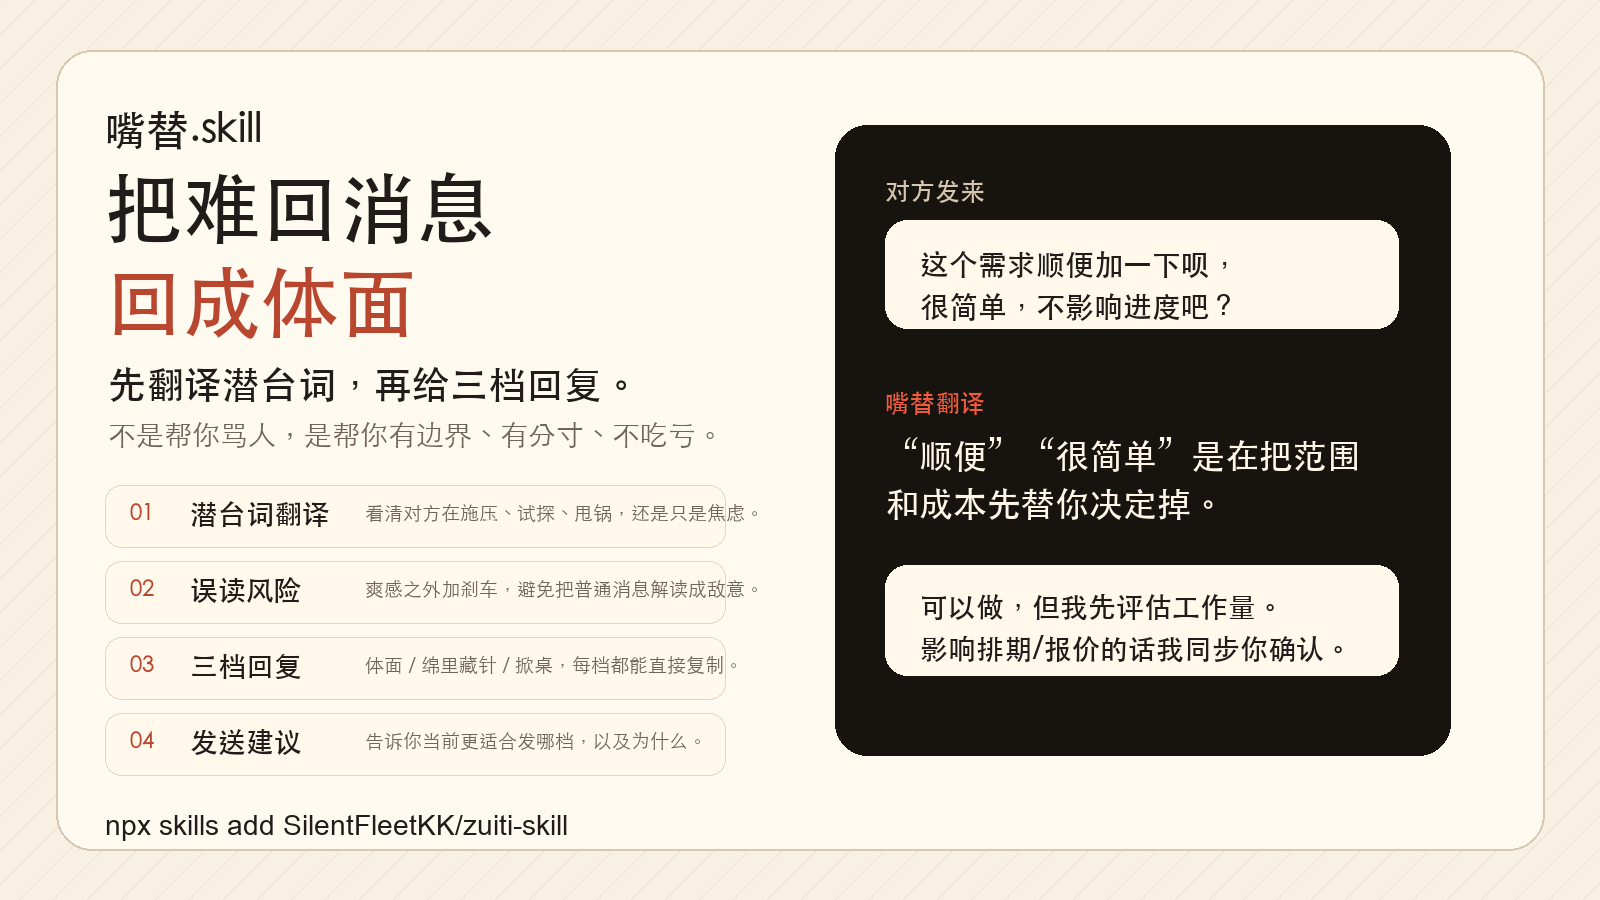
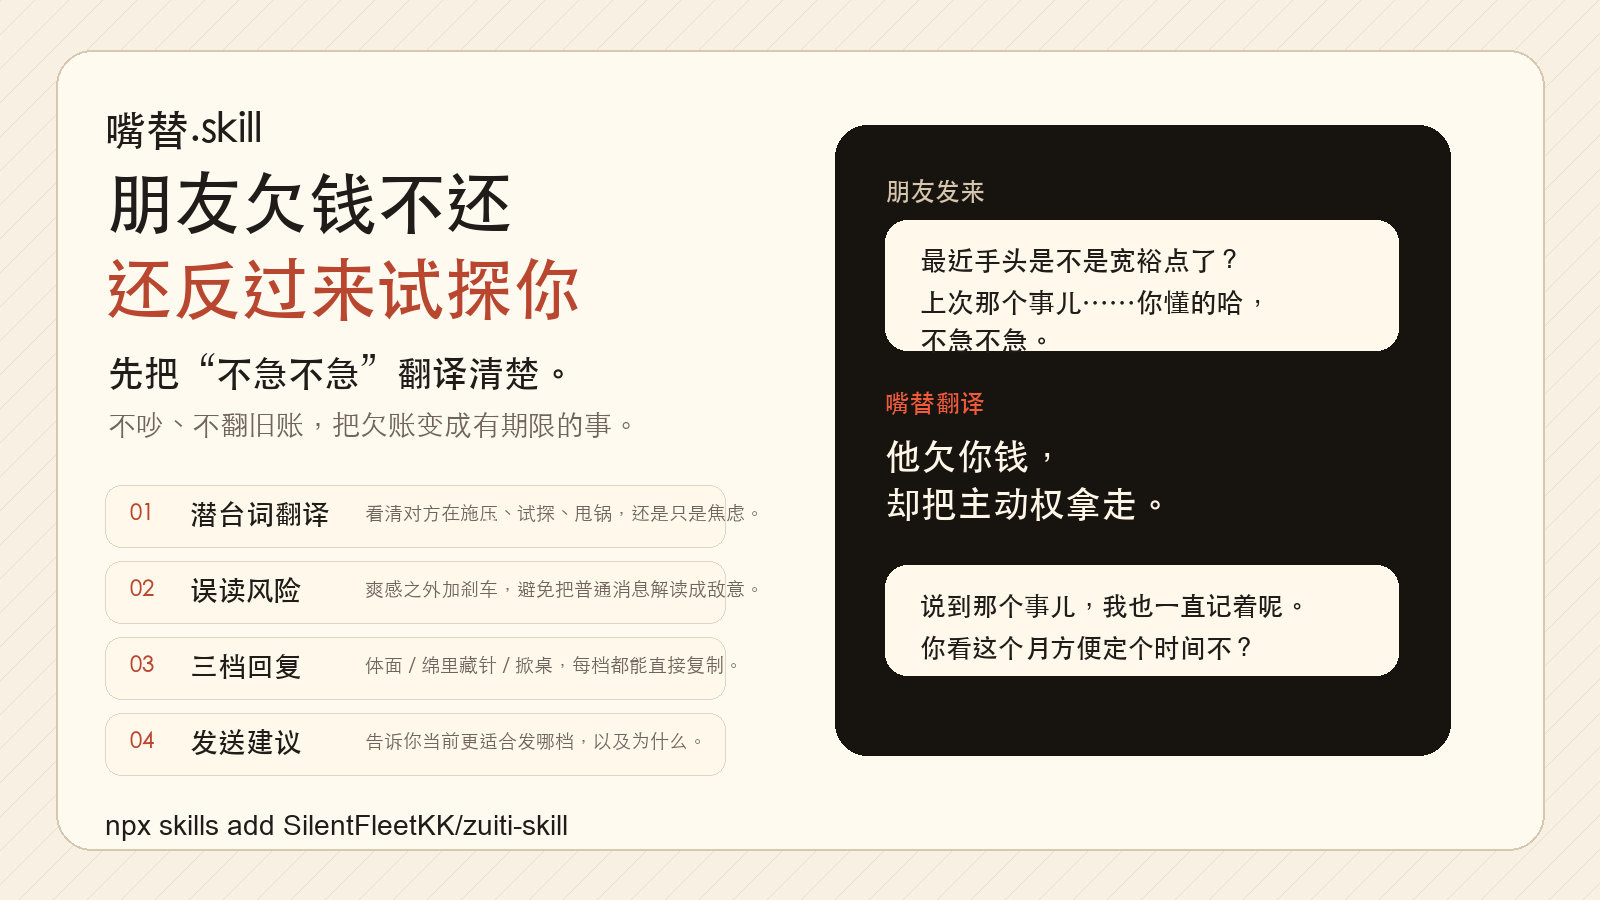
feat: 更新首页动画案例

diff --git a/tools/generate_promo_assets.py b/tools/generate_promo_assets.py
@@ -207,16 +207,17 @@ def animated_hero():
         draw.ellipse(box((cx - pulse, top + 118 - pulse, cx + pulse, top + 118 + pulse)), fill=red)
 
     def draw_input(layer, x, y, alpha):
-        draw_round(layer, (x, y, x + 304, y + 112), 18, PANEL, "#ddcfba", alpha=alpha)
-        draw_text(layer, (x + 24, y + 20), "难回消息", 15, RED, "bold", alpha)
-        draw_text(layer, (x + 24, y + 50), "这个需求顺便加一下呗，", 20, INK, "bold", alpha)
-        draw_text(layer, (x + 24, y + 82), "很简单，不影响进度吧？", 20, INK, "bold", alpha)
+        draw_round(layer, (x, y, x + 336, y + 126), 18, PANEL, "#ddcfba", alpha=alpha)
+        draw_text(layer, (x + 24, y + 20), "朋友发来", 15, RED, "bold", alpha)
+        draw_text(layer, (x + 24, y + 50), "最近手头是不是宽裕点了？", 18, INK, "bold", alpha)
+        draw_text(layer, (x + 24, y + 80), "上次那个事儿……你懂的哈，", 18, INK, "bold", alpha)
+        draw_text(layer, (x + 24, y + 108), "不急不急。", 18, INK, "bold", alpha)
 
     def draw_translation(layer, alpha):
-        draw_round(layer, (628, 112, 878, 248), 22, "#17130f", None, alpha=alpha)
+        draw_round(layer, (628, 112, 878, 260), 22, "#17130f", None, alpha=alpha)
         draw_text(layer, (656, 138), "嘴替翻译", 15, "#f05b3c", "bold", alpha)
-        draw_text(layer, (656, 174), "“顺便”“很简单”", 23, "#fff6e8", "bold", alpha)
-        draw_text(layer, (656, 210), "是在替你决定成本", 23, "#fff6e8", "bold", alpha)
+        draw_text(layer, (656, 174), "他欠你钱，", 24, "#fff6e8", "bold", alpha)
+        draw_text(layer, (656, 211), "却把主动权拿走。", 24, "#fff6e8", "bold", alpha)
 
     def draw_reply(layer, idx, title, body, alpha):
         y = 284 + idx * 58 - (1 - ease(alpha)) * 12
@@ -256,11 +257,11 @@ def animated_hero():
 
         static = Image.new("RGBA", base.size, (0, 0, 0, 0))
         draw_corner_marks(static, ease(t / 0.12))
-        draw_text(static, (66, 58), "ZUITI · SKILL  |  MESSAGE DISTILLER", 11, "#9a8878", "bold", 1, mono_font=True)
+        draw_text(static, (66, 58), "ZUITI.SKILL  |  MESSAGE DISTILLER", 12, "#9a8878", "bold", 1)
         draw_line(static, (66, 82, 132, 82), RED, 3, 1)
-        draw_text(static, (66, 118), "把难回消息", 38, INK, "bold")
-        draw_text(static, (66, 166), "回成体面", 38, RED, "bold")
-        draw_text(static, (66, 222), "先翻译潜台词，再给三档回复。", 19, MUTED, "regular")
+        draw_text(static, (66, 118), "朋友欠钱不还", 38, INK, "bold")
+        draw_text(static, (66, 166), "还反过来试探你", 38, RED, "bold")
+        draw_text(static, (66, 222), "别吵，先把账拉回明面上。", 19, MUTED, "regular")
         base.alpha_composite(static)
 
         apparatus_layer = Image.new("RGBA", base.size, (0, 0, 0, 0))
@@ -275,9 +276,9 @@ def animated_hero():
 
         # Process labels around the line-art device.
         labels = [
-            (0.30, "潜台词", 390, 170),
-            (0.42, "误读风险", 372, 300),
-            (0.54, "三档回复", 510, 360),
+            (0.30, "欠账反转", 344, 170),
+            (0.42, "不急话术", 372, 300),
+            (0.54, "定个时间", 510, 360),
         ]
         label_layer = Image.new("RGBA", base.size, (0, 0, 0, 0))
         for start, text, x, y in labels:
@@ -297,9 +298,9 @@ def animated_hero():
         base.alpha_composite(trans_layer)
 
         replies = [
-            ("体面版", "我先评估工作量。"),
-            ("绵里藏针", "影响排期我同步确认。"),
-            ("掀桌版", "范围和成本先说清。"),
+            ("体面版", "方便时安排一下。"),
+            ("绵里藏针", "这个月定个时间？"),
+            ("掀桌版", "账还是得算明白。"),
         ]
         reply_layer = Image.new("RGBA", base.size, (0, 0, 0, 0))
         for idx, (title, body) in enumerate(replies):
@@ -310,7 +311,7 @@ def animated_hero():
 
         end_alpha = ease((t - 0.78) / 0.12)
         footer = Image.new("RGBA", base.size, (0, 0, 0, 0))
-        draw_text(footer, (66, 462), "潜台词翻译 + 误读风险 + 三档回复 + 发送建议", 17, MUTED, "bold", end_alpha)
+        draw_text(footer, (104, 462), "推荐：绵里藏针版，把钱拉回明面上，也给对方留台阶", 17, MUTED, "bold", end_alpha)
         draw_text(footer, (628, 463), "npx skills add SilentFleetKK/zuiti-skill", 12, INK, "regular", end_alpha, mono_font=True)
         base.alpha_composite(footer)
 
@@ -414,8 +415,8 @@ def banner():
   <g transform="translate(980 160)">
     <rect x="0" y="0" width="350" height="235" rx="24" fill="#17130f"/>
     <text x="34" y="58" font-family="Inter, PingFang SC, Microsoft YaHei, Arial, sans-serif" font-size="20" fill="#d6c6ad">难回消息</text>
-    <text x="34" y="112" font-family="Inter, PingFang SC, Microsoft YaHei, Arial, sans-serif" font-size="30" font-weight="700" fill="#fff6e8">“顺便加一下呗”</text>
-    <text x="34" y="172" font-family="Inter, PingFang SC, Microsoft YaHei, Arial, sans-serif" font-size="24" fill="#f05b3c">→ 先评估范围，再谈排期</text>
+    <text x="34" y="112" font-family="Inter, PingFang SC, Microsoft YaHei, Arial, sans-serif" font-size="30" font-weight="700" fill="#fff6e8">“不急不急”</text>
+    <text x="34" y="172" font-family="Inter, PingFang SC, Microsoft YaHei, Arial, sans-serif" font-size="24" fill="#f05b3c">→ 把欠账定成有期限的事</text>
   </g>
   <text x="126" y="510" font-family="Inter, PingFang SC, Microsoft YaHei, Arial, sans-serif" font-size="24" font-weight="700" fill="#1f1c19">npx skills add SilentFleetKK/zuiti-skill</text>
 </svg>
@@ -437,8 +438,8 @@ def banner_png():
     d.text((130, 430), "潜台词翻译 + 误读风险 + 三档回复 + 发送建议", font=font(32), fill=MUTED)
     rounded(d, (990, 160, 1348, 402), 28, fill="#17130f")
     d.text((1026, 210), "难回消息", font=font(23, "bold"), fill="#d6c6ad")
-    d.text((1026, 275), "“顺便加一下呗”", font=font(34, "bold"), fill="#fff6e8")
-    d.text((1026, 338), "→ 先评估范围，再谈排期", font=font(26, "bold"), fill="#f05b3c")
+    d.text((1026, 275), "“不急不急”", font=font(34, "bold"), fill="#fff6e8")
+    d.text((1026, 338), "→ 把欠账定成有期限的事", font=font(24, "bold"), fill="#f05b3c")
     d.text((126, 515), "npx skills add SilentFleetKK/zuiti-skill", font=ImageFont.truetype(FONT_MONO, 26), fill=INK)
     save_png(ROOT / "assets" / "banner.png", img)
 
@@ -451,10 +452,10 @@ def hero_poster_png():
     rounded(d, (56, 50, 1544, 850), 36, fill="#fffaf0", outline=LINE, width=2)
 
     d.text((105, 108), "嘴替.skill", font=font(42, "bold"), fill=INK)
-    d.text((105, 168), "把难回消息", font=font(78, "bold"), fill=INK)
-    d.text((105, 262), "回成体面", font=font(78, "bold"), fill=RED)
-    d.text((108, 365), "先翻译潜台词，再给三档回复。", font=font(38, "bold"), fill=INK)
-    d.text((108, 420), "不是帮你骂人，是帮你有边界、有分寸、不吃亏。", font=font(28), fill=MUTED)
+    d.text((105, 168), "朋友欠钱不还", font=font(68, "bold"), fill=INK)
+    d.text((105, 254), "还反过来试探你", font=font(68, "bold"), fill=RED)
+    d.text((108, 355), "先把“不急不急”翻译清楚。", font=font(36, "bold"), fill=INK)
+    d.text((108, 410), "不吵、不翻旧账，把欠账变成有期限的事。", font=font(28), fill=MUTED)
 
     steps = [
         ("01", "潜台词翻译", "看清对方在施压、试探、甩锅，还是只是焦虑。"),
@@ -471,16 +472,17 @@ def hero_poster_png():
         y += 76
 
     rounded(d, (835, 125, 1450, 755), 32, fill="#17130f")
-    d.text((885, 178), "对方发来", font=font(25, "bold"), fill="#d6c6ad")
-    rounded(d, (885, 220, 1398, 328), 22, fill="#fff8eb")
-    d.text((920, 250), "这个需求顺便加一下呗，", font=font(29, "bold"), fill=INK)
-    d.text((920, 292), "很简单，不影响进度吧？", font=font(29, "bold"), fill=INK)
+    d.text((885, 178), "朋友发来", font=font(25, "bold"), fill="#d6c6ad")
+    rounded(d, (885, 220, 1398, 350), 22, fill="#fff8eb")
+    d.text((920, 246), "最近手头是不是宽裕点了？", font=font(27, "bold"), fill=INK)
+    d.text((920, 288), "上次那个事儿……你懂的哈，", font=font(27, "bold"), fill=INK)
+    d.text((920, 326), "不急不急。", font=font(27, "bold"), fill=INK)
     d.text((885, 390), "嘴替翻译", font=font(25, "bold"), fill="#f05b3c")
-    d.text((885, 438), "“顺便”“很简单”是在把范围", font=font(34, "bold"), fill="#fff6e8")
-    d.text((885, 486), "和成本先替你决定掉。", font=font(34, "bold"), fill="#fff6e8")
+    d.text((885, 438), "他欠你钱，", font=font(36, "bold"), fill="#fff6e8")
+    d.text((885, 486), "却把主动权拿走。", font=font(36, "bold"), fill="#fff6e8")
     rounded(d, (885, 565, 1398, 675), 22, fill="#fff8eb")
-    d.text((920, 592), "可以做，但我先评估工作量。", font=font(28, "bold"), fill=INK)
-    d.text((920, 634), "影响排期/报价的话我同步你确认。", font=font(28, "bold"), fill=INK)
+    d.text((920, 592), "说到那个事儿，我也一直记着呢。", font=font(26, "bold"), fill=INK)
+    d.text((920, 634), "你看这个月方便定个时间不？", font=font(26, "bold"), fill=INK)
     d.text((105, 805), "npx skills add SilentFleetKK/zuiti-skill", font=ImageFont.truetype(FONT_MONO, 28), fill=INK)
     save_png(ROOT / "assets" / "hero-poster.png", img)
 